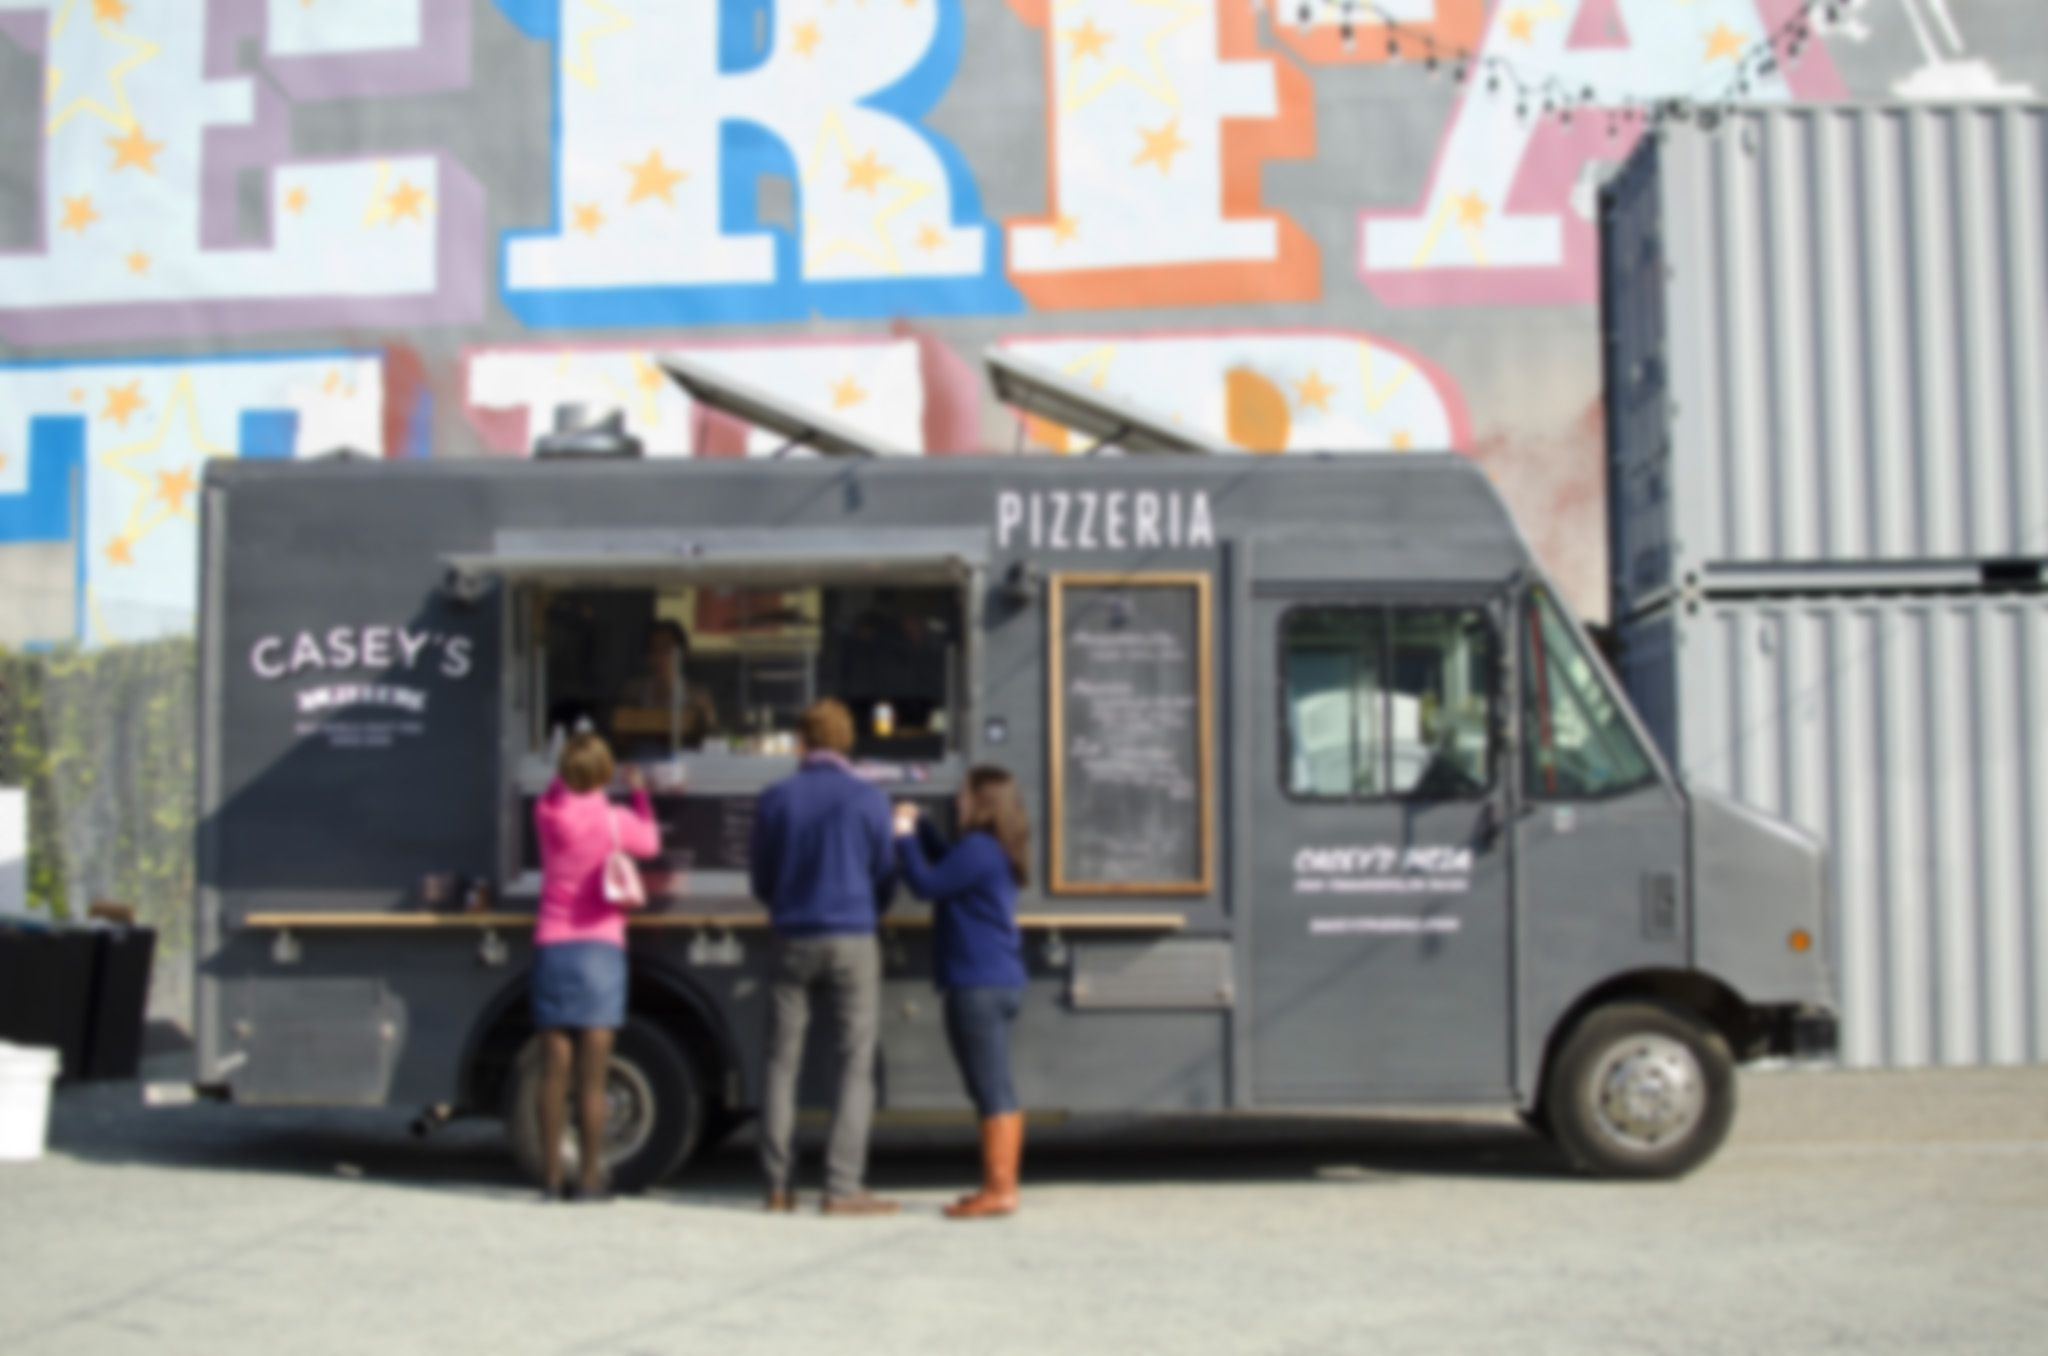
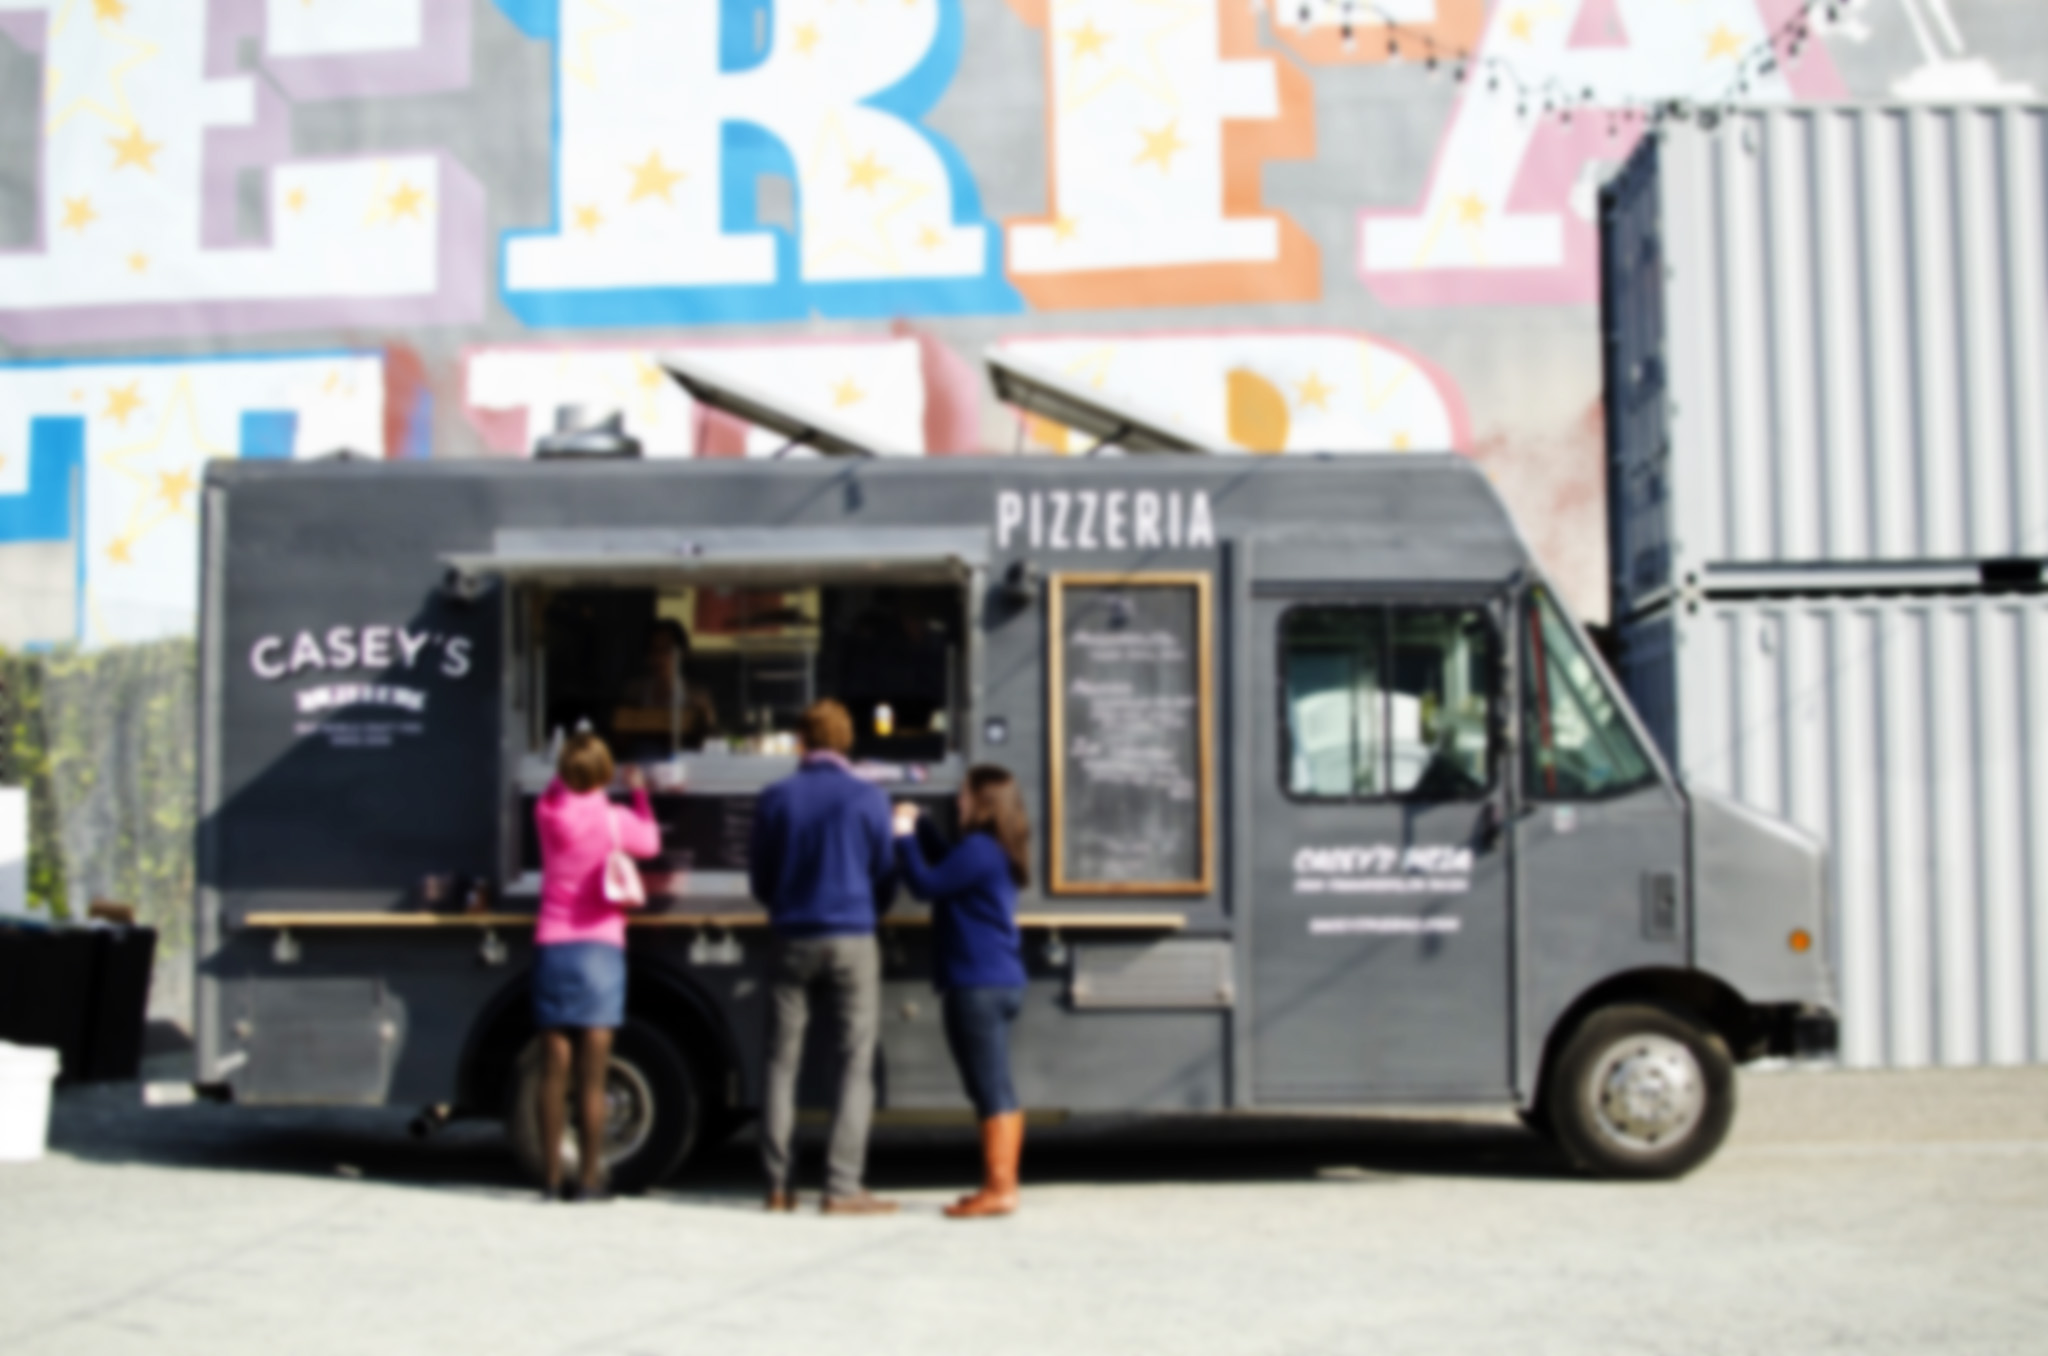
Added images and appended to .gitignore

diff --git a/templates/index.html b/templates/index.html
@@ -63,5 +63,63 @@
     </div>
   </div>
 </div>
+
+
+
+<div id="flashModal" class="modal fade" role="dialog">
+    <div class="modal-dialog">
+
+        <!-- Modal content-->
+        <div class="modal-content">
+            <div class="modal-header">
+                <button type="button" class="close" data-dismiss="modal">&times;</button>
+                <h4 class="modal-title">OuterSpaces Says...</h4>
+            </div>
+            <div class="modal-body">
+                {% with messages = get_flashed_messages() %}
+                  {% if messages %}
+                    <p class=flashes>
+                    {% for message in messages %}
+                      {{ message }}
+                    {% endfor %}
+                    </p>
+                  {% endif %}
+                {% endwith %}
+            </div>
+            <div class="modal-footer">
+                <button type="button" class="btn btn-default" data-dismiss="modal">Close</button>
+            </div>
+        </div>
+    </div>
+</div>
+
+<div class="modal fade" id="pageModal" role="dialog">
+  <div class="modal-dialog">
+    <div class="modal-content">
+      <div class="modal-header">
+        <button type="button" class="close" data-dismiss="modal">&times;</button>
+        <h4 class="modal-title">OuterSpaces says...</h4>
+      </div>
+      <div class="modal-body">
+        <p id="pageModalHtml"></p>
+      </div>
+      <div class="modal-footer">
+        <button type="button" class="btn btn-secondary" data-dismiss="modal">Close</button>
+      </div>
+    </div>
+  </div>
+</div>
+
+  <script>
+    //////////////////////
+    // Flash into modal //
+    //////////////////////
+
+    var messages = "{{ get_flashed_messages() }}";
+
+    if (typeof messages != 'undefined' && messages != '[]') {
+      $("#flashModal").modal();
+    };
+  </script>
 </body>
 </html>

diff --git a/static/scripts/markers.js b/static/scripts/markers.js
@@ -75,7 +75,7 @@ function plotDataTrucks(data) {
 
   // custom info window string
   var contentString = "<head><link rel='stylesheet' href='/static/styles/mystyles.css'/></head><body><div id='content'>" +
-      "<p><strong>FOOD TRUCK</strong></p>" +
+      "<p>FOOD TRUCK</p>" +
       "<h3>" + title + "</h3>" + 
       "<p><button type='button' id='walkingDir' class='directions btn btn-default'>Walking Directions</button> " +
       "<button type='button' id='drivingDir' class='directions btn btn-default'>Driving Directions</button> " +
@@ -143,7 +143,7 @@ function plotDataPopos(data) {
 
   // custom info window string
   var contentString = "<head><link rel='stylesheet' href='/static/styles/mystyles.css'/></head><body><div id='content'>" +
-      "<p><strong>POPOS</strong></p>" +
+      "<p>POPOS</p>" +
       "<h3>" + title + "</h3>" +
       "<p><button type='button' id='walkingDir' class='directions btn btn-default'>Walking Directions</button> " +
       "<button type='button' id='drivingDir' class='directions btn btn-default'>Driving Directions</button> " +
@@ -212,7 +212,7 @@ function plotDataArt(data) {
 
   // custom info window string
   var contentString = "<head><link rel='stylesheet' href='/static/styles/mystyles.css'/></head><body><div id='content'>" +
-      "<p><strong>PUBLIC ART</strong></p>" +
+      "<p>PUBLIC ART</p>" +
       "<h3>" + title + "</h3>" +
       "<p><button type='button' id='walkingDir' class='directions btn btn-default'>Walking Directions</button> " +
       "<button type='button' id='drivingDir' class='directions btn btn-default'>Driving Directions</button> " +

diff --git a/static/styles/mystyles.css b/static/styles/mystyles.css
@@ -51,7 +51,7 @@ a {
             transition: all ease .7s;
 }
 
-a:hover {
+a:hover, a:focus {
     color: #296152;
     text-decoration: none;
 }
@@ -116,7 +116,7 @@ div.btn-group.open>.btn.hood-btns, .btn.hood-btns:focus {
 
 .navbar-default .navbar-nav>li>a {
     font-weight: normal;
-    font-size: 20px;
+    font-size: 18px;
     font-family: 'Ek Mukta', sans-serif;
     color: #fff;
     line-height: 50px;
@@ -190,7 +190,7 @@ div.btn-group.open>.btn.hood-btns, .btn.hood-btns:focus {
 
 
 #index {
-    background:url(/static/images/caseys_pizza_blur2.jpg) no-repeat center;
+    background:url(/static/images/caseys_pizza_blur.jpg) no-repeat center;
     background-size: cover;
     color: #fff;
     text-shadow: 0 0 8px #555;
@@ -205,7 +205,10 @@ div.btn-group.open>.btn.hood-btns, .btn.hood-btns:focus {
     font-size: 55px;
 }
 
-
+#index #flashModal, #index #deletedModal, #index #pageModal {
+    color: #47505e;
+    text-shadow: none;
+}
 
 
 /* Data Pages

diff --git a/templates/base.html b/templates/base.html
@@ -92,7 +92,6 @@
                       <button type="button" class="btn btn-default" data-dismiss="modal">Close</button>
                   </div>
               </div>
-
           </div>
       </div>
 
